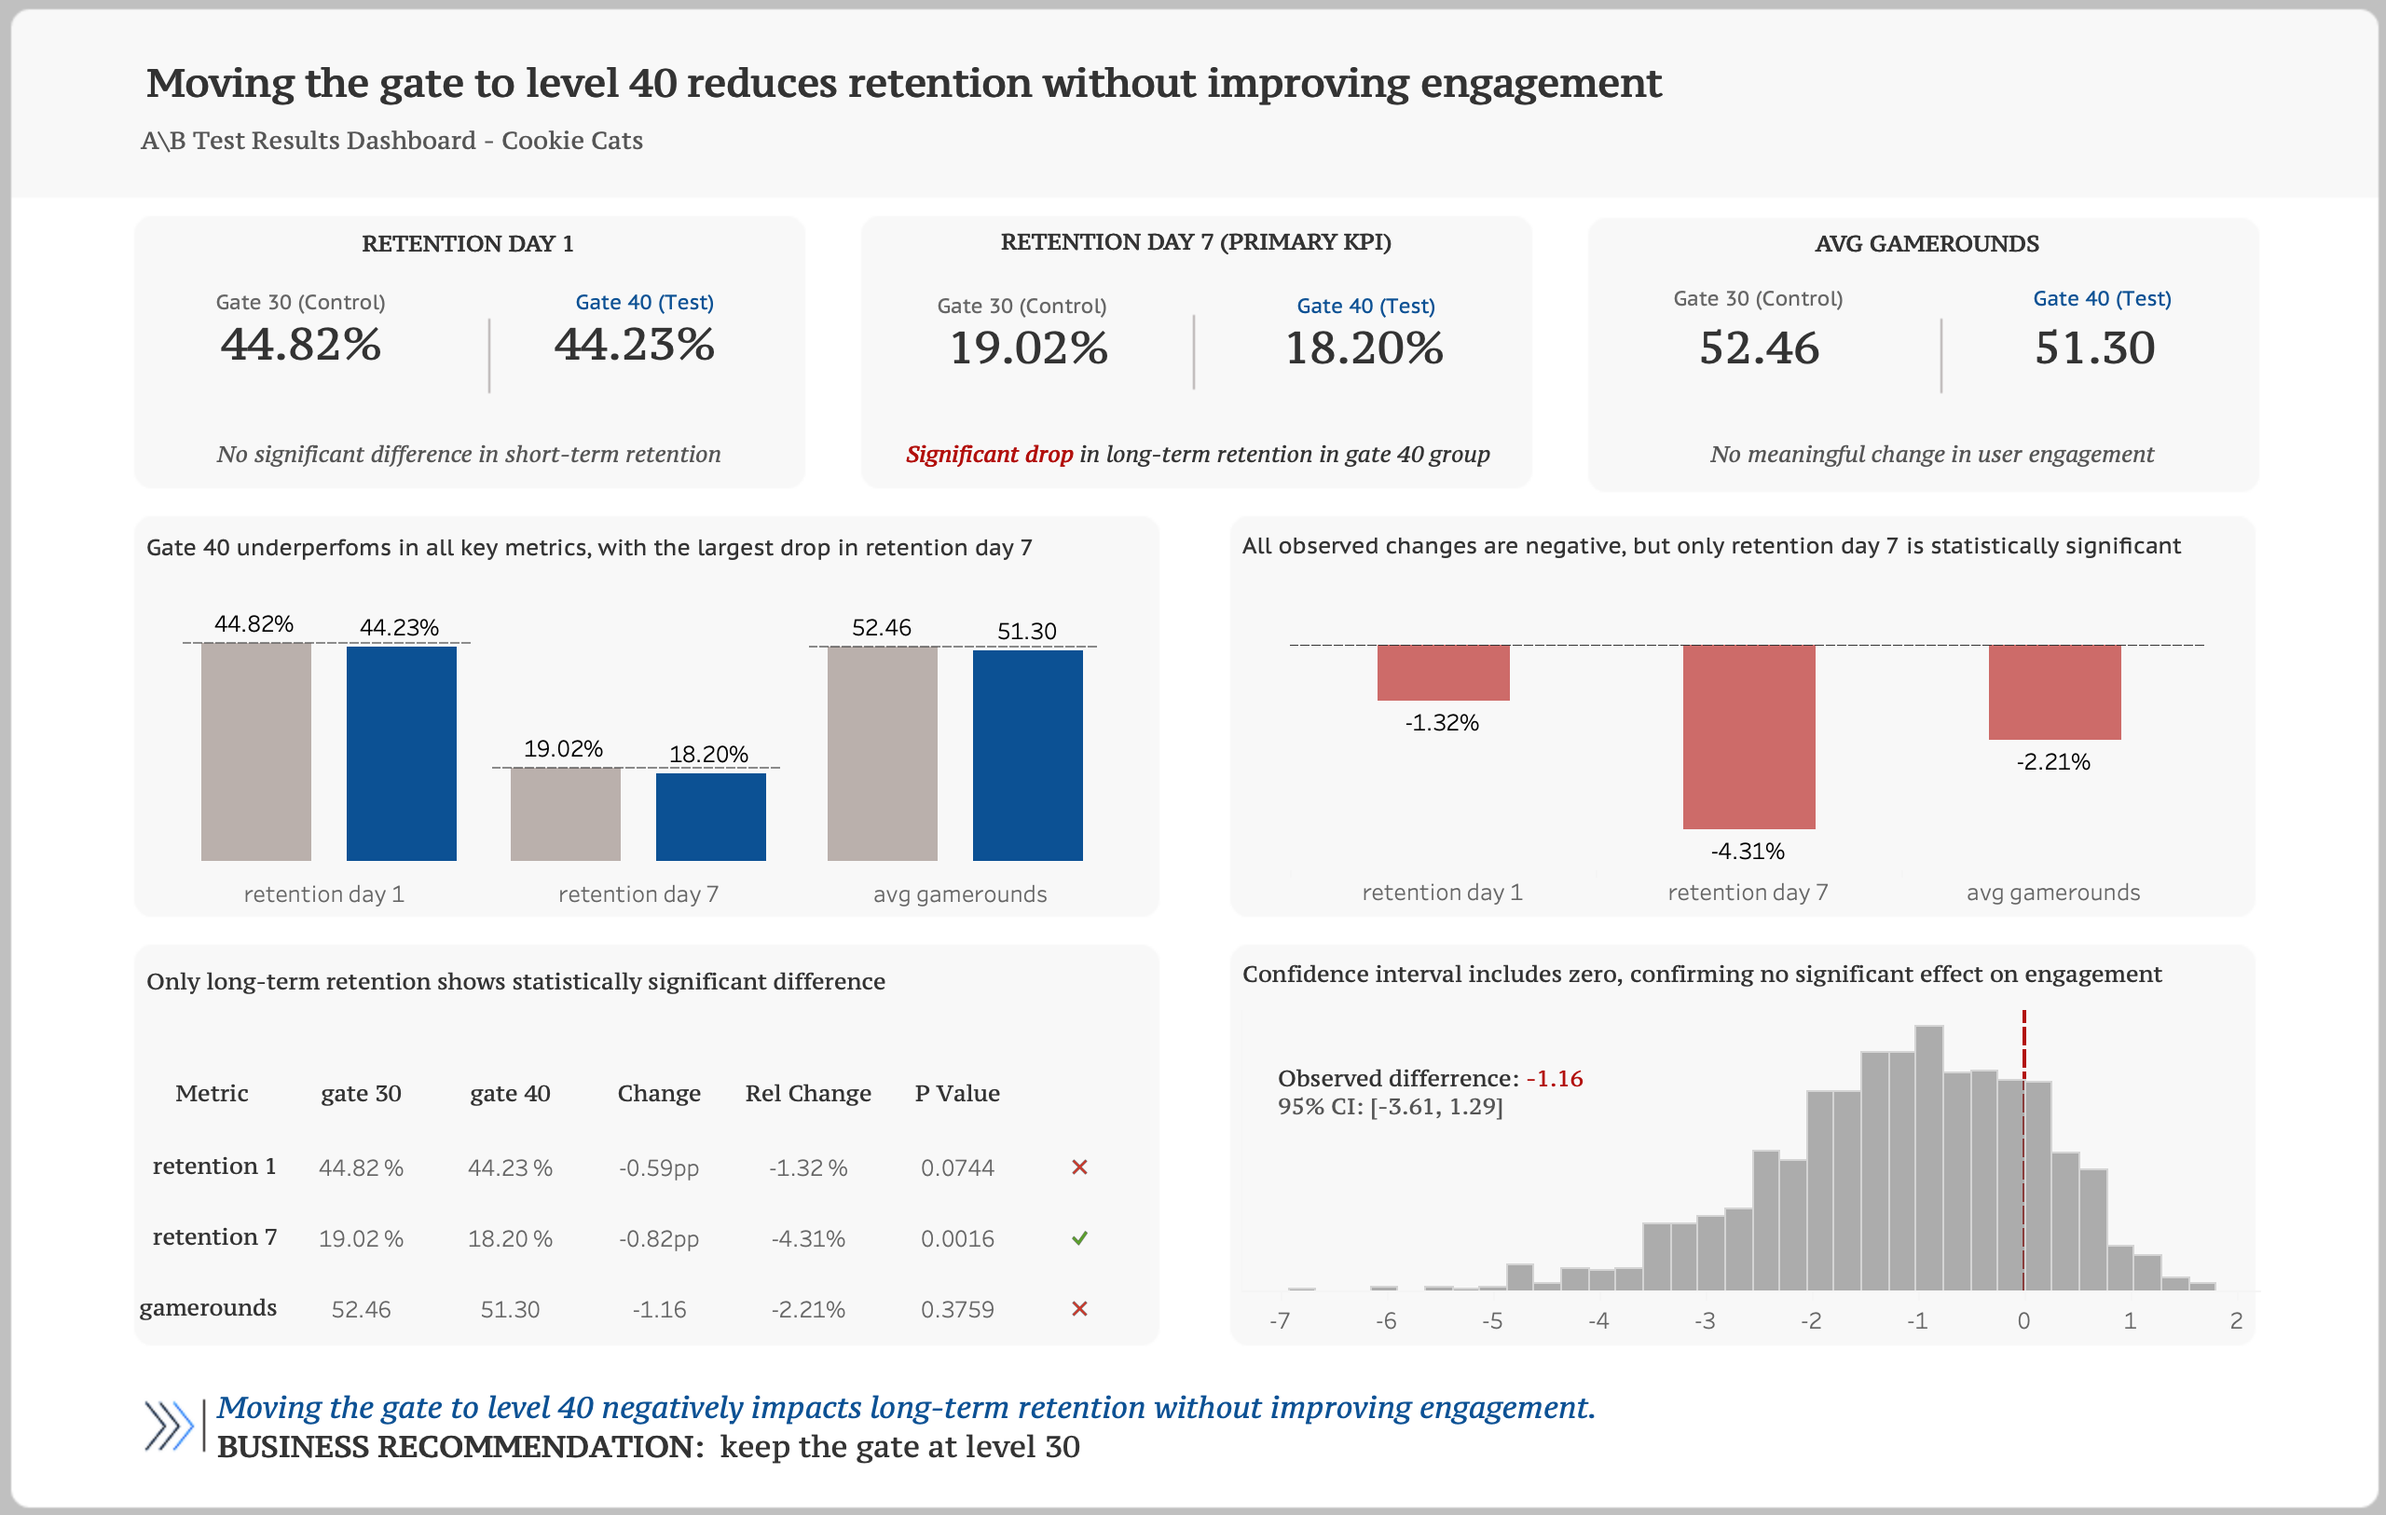
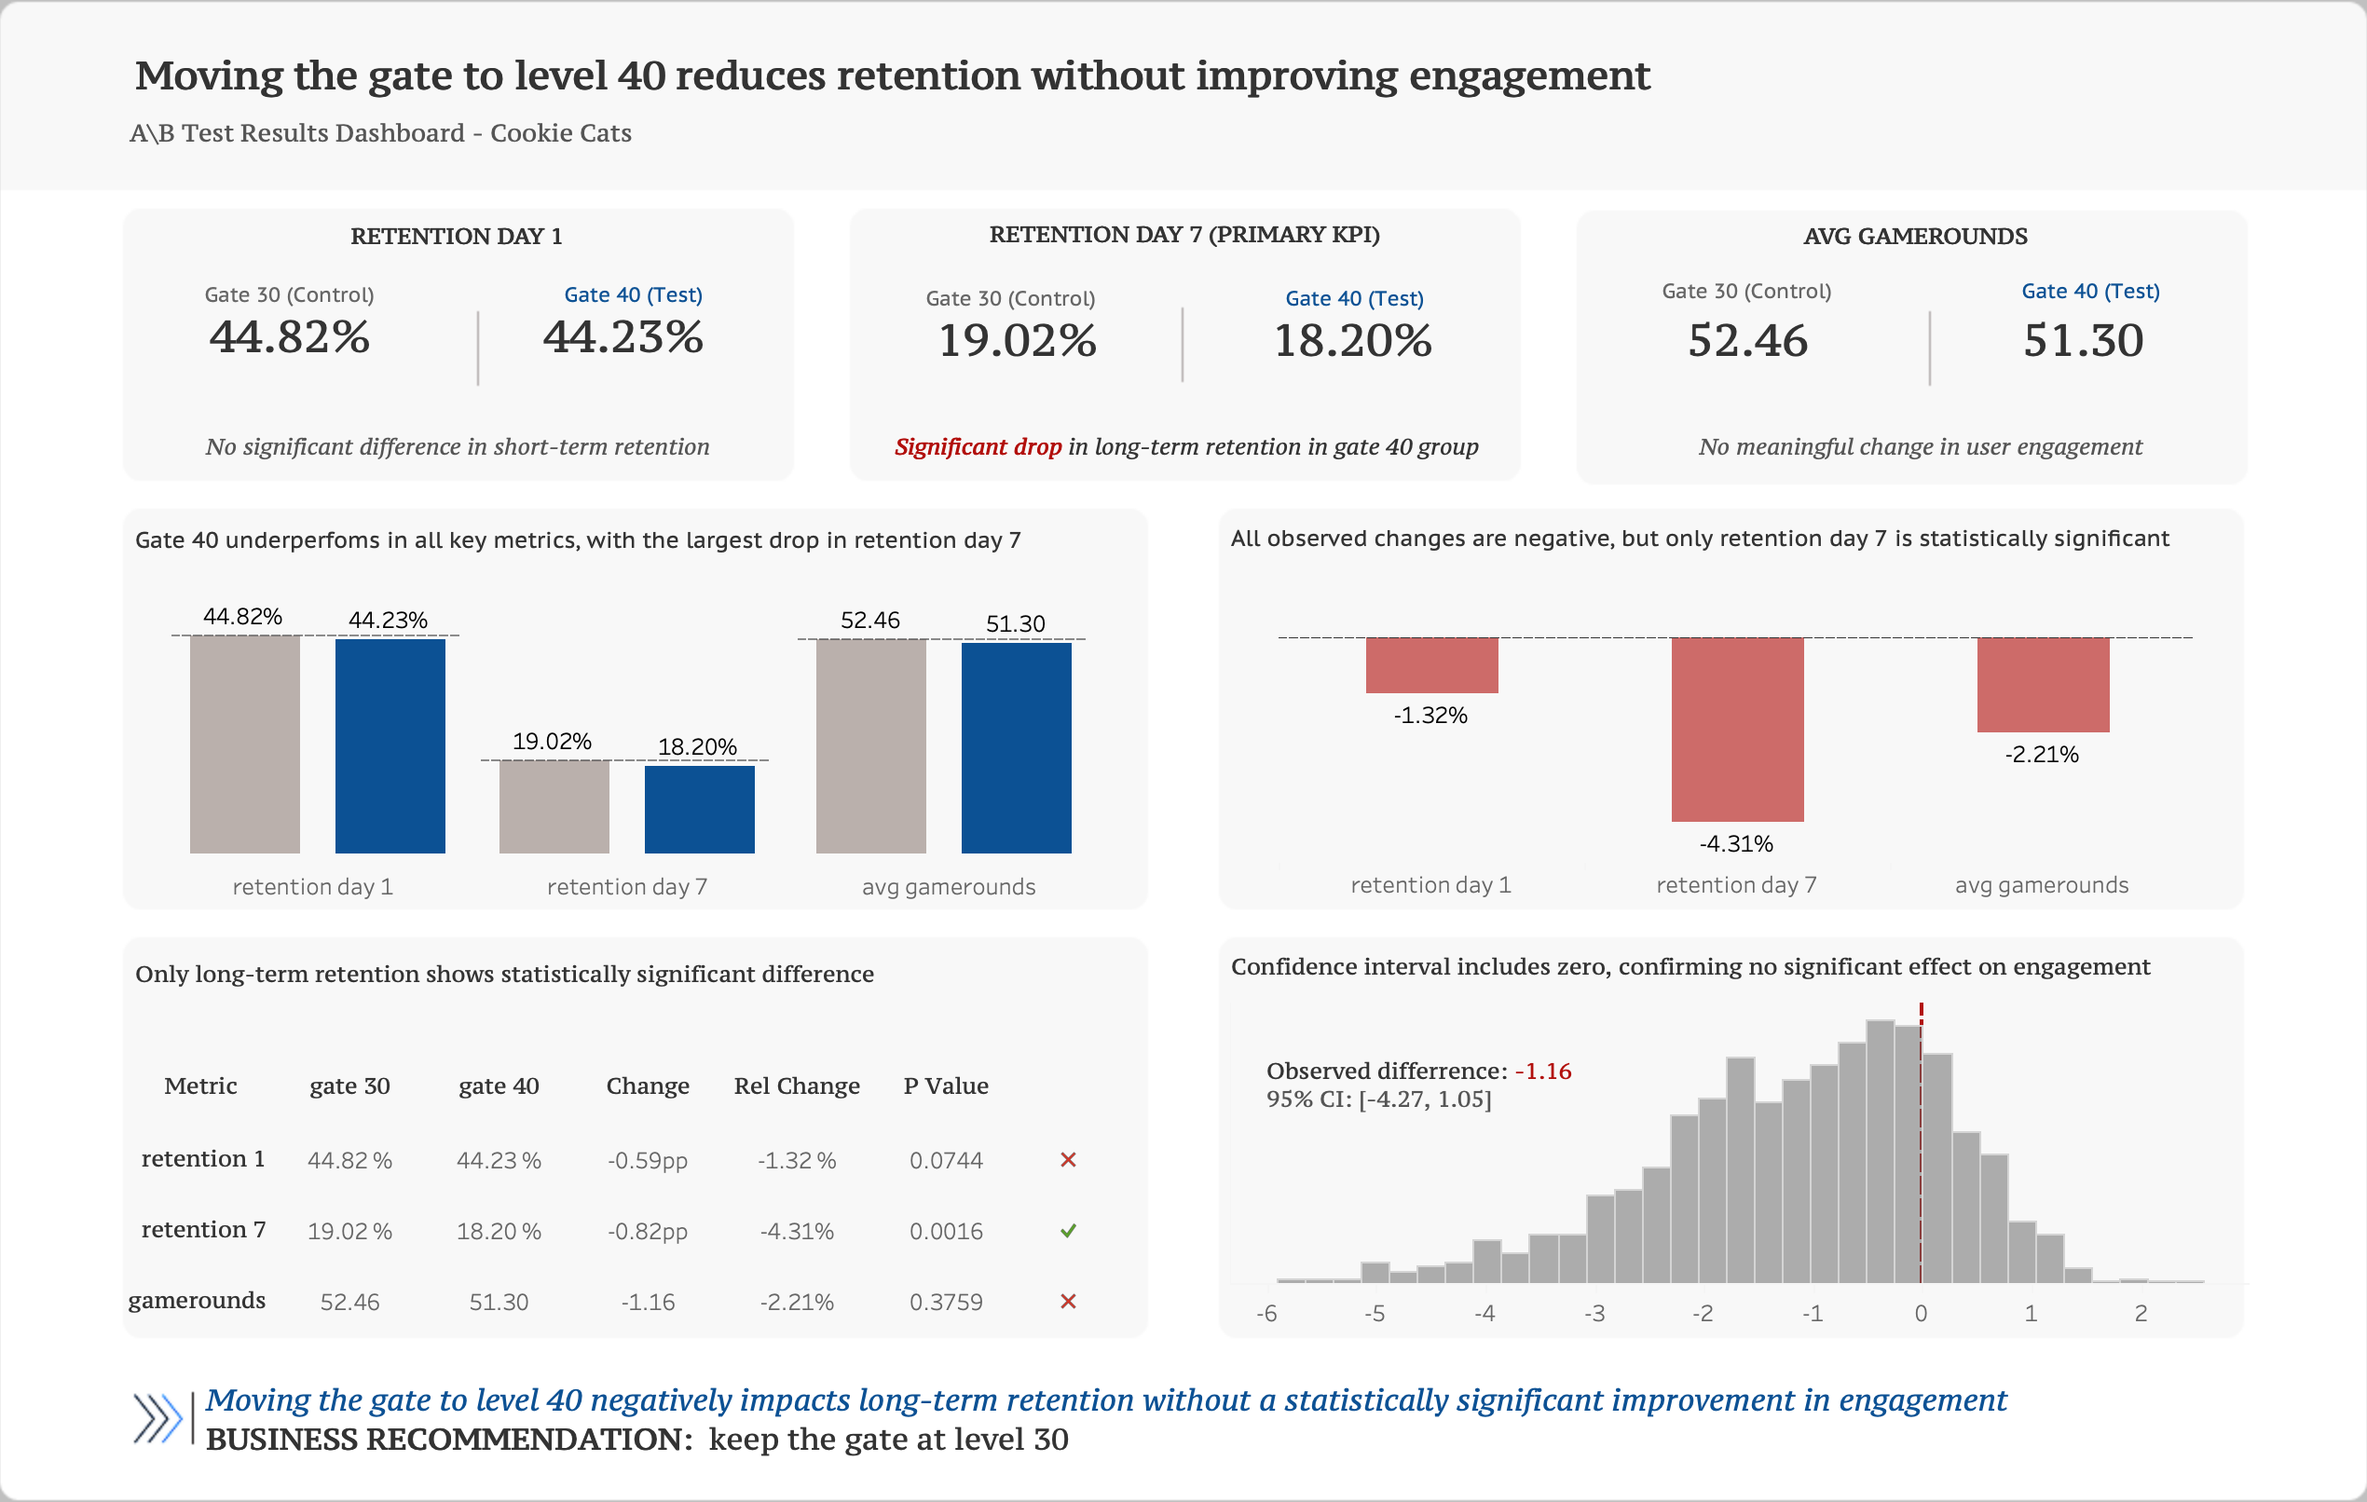
Refine A/B test analysis and documentation

diff --git a/README.md b/README.md
@@ -21,15 +21,24 @@ Does moving the first game gate from **level 30 to level 40** affect **user rete
 
 **Hypotheses:**
 
-**Retention (core KPI)**
+**Primary KPI: Day 7 Retention (`retention_7`)**
 
-* H0: retention_1 and retention_7 are equal between groups
-* H1: there is a **statistically significant difference**
+- H0: Day 7 retention is equal between the control (`gate_30`) and test (`gate_40`) groups.
+- H1: Day 7 retention differs between the control (`gate_30`) and test (`gate_40`) groups.
 
-**Engagement (secondary KPI)**
+**Secondary KPIs**
 
-* H0: sum_gamerounds is equal between groups
-* H1: there is a difference
+**1. Day 1 Retention (`retention_1`)**
+- H0: Day 1 retention is equal between the control and test groups.
+- H1: Day 1 retention differs between the control and test groups.
+
+**2. Average Gamerounds (`sum_gamerounds`)**
+- H0: The mean number of gamerounds is equal between the control and test groups.
+- H1: The mean number of gamerounds differs between the control and test groups.
+
+**Statistical significance level:** α = 0.05.
+
+Day 7 retention is treated as the primary KPI for this portfolio analysis. Day 1 retention and average gamerounds are secondary KPIs used to provide additional context on short-term retention and user engagement.
 
 ---
 
@@ -42,8 +51,8 @@ A later gate may increase **short-term engagement** by allowing uninterrupted ga
 ### Scope of Analysis
 
 * Compare **control (gate_30)** and **test (gate_40)** groups
-* Evaluate **retention (Day 1 and Day 7)** and **engagement (gamerounds)**
-* Apply **statistical testing** to validate observed differences
+* Evaluate **Day 7 Retention (`retention_7`) as the primary KPI**, with Day 1 Retention (`retention_1`) and Average Gamerounds (`sum_gamerounds`) as secondary KPIs
+* Apply statistical testing to validate observed differences between the control and test groups
 * Quantify **effect size and business impact**
 * Build a **Tableau dashboard** for result communication
 
@@ -104,7 +113,7 @@ Click the [Tableau Public dashboard](https://surl.lu/qicavv) to explore **intera
 
 ### Business Impact
 
-> The analysis reveals a **negative impact of moving the gate to level 40 on user retention**, with **no improvement in engagement**.
+> The analysis found **a statistically significant decrease in Day 7 retention when the gate was moved from level 30 to level 40**. No statistically significant differences were detected in Day 1 retention or average gamerounds.
 
 ---
 
@@ -119,15 +128,16 @@ Click the [Tableau Public dashboard](https://surl.lu/qicavv) to explore **intera
 
 ### Strategic Interpretation
 
-Delaying the first progression barrier reduces **long-term retention** without generating additional engagement. This suggests that **early progression structure** plays a critical role in maintaining player motivation and return behavior.
+The results suggest that **moving the first gate from level 30 to level 40 may negatively affect long-term retention** without producing a statistically significant change in short-term retention or average gamerounds.
+
+The experiment does not establish why Day 7 retention decreased. Further analysis of player behavior or qualitative UX feedback could help investigate the underlying reasons.
 
 ---
 
 ### Strategic Insights
 
-* **Early friction (gate at level 30)** may support stronger habit formation
-* Removing or delaying progression constraints does not necessarily improve engagement
-* **Long-term retention** is more sensitive to game design changes than short-term behavior
+* Moving the first gate to level 40 was associated with lower Day 7 retention in this experiment.
+* Changes to game progression should be evaluated against **long-term retention**, not engagement metrics alone.
 
 ---
 
